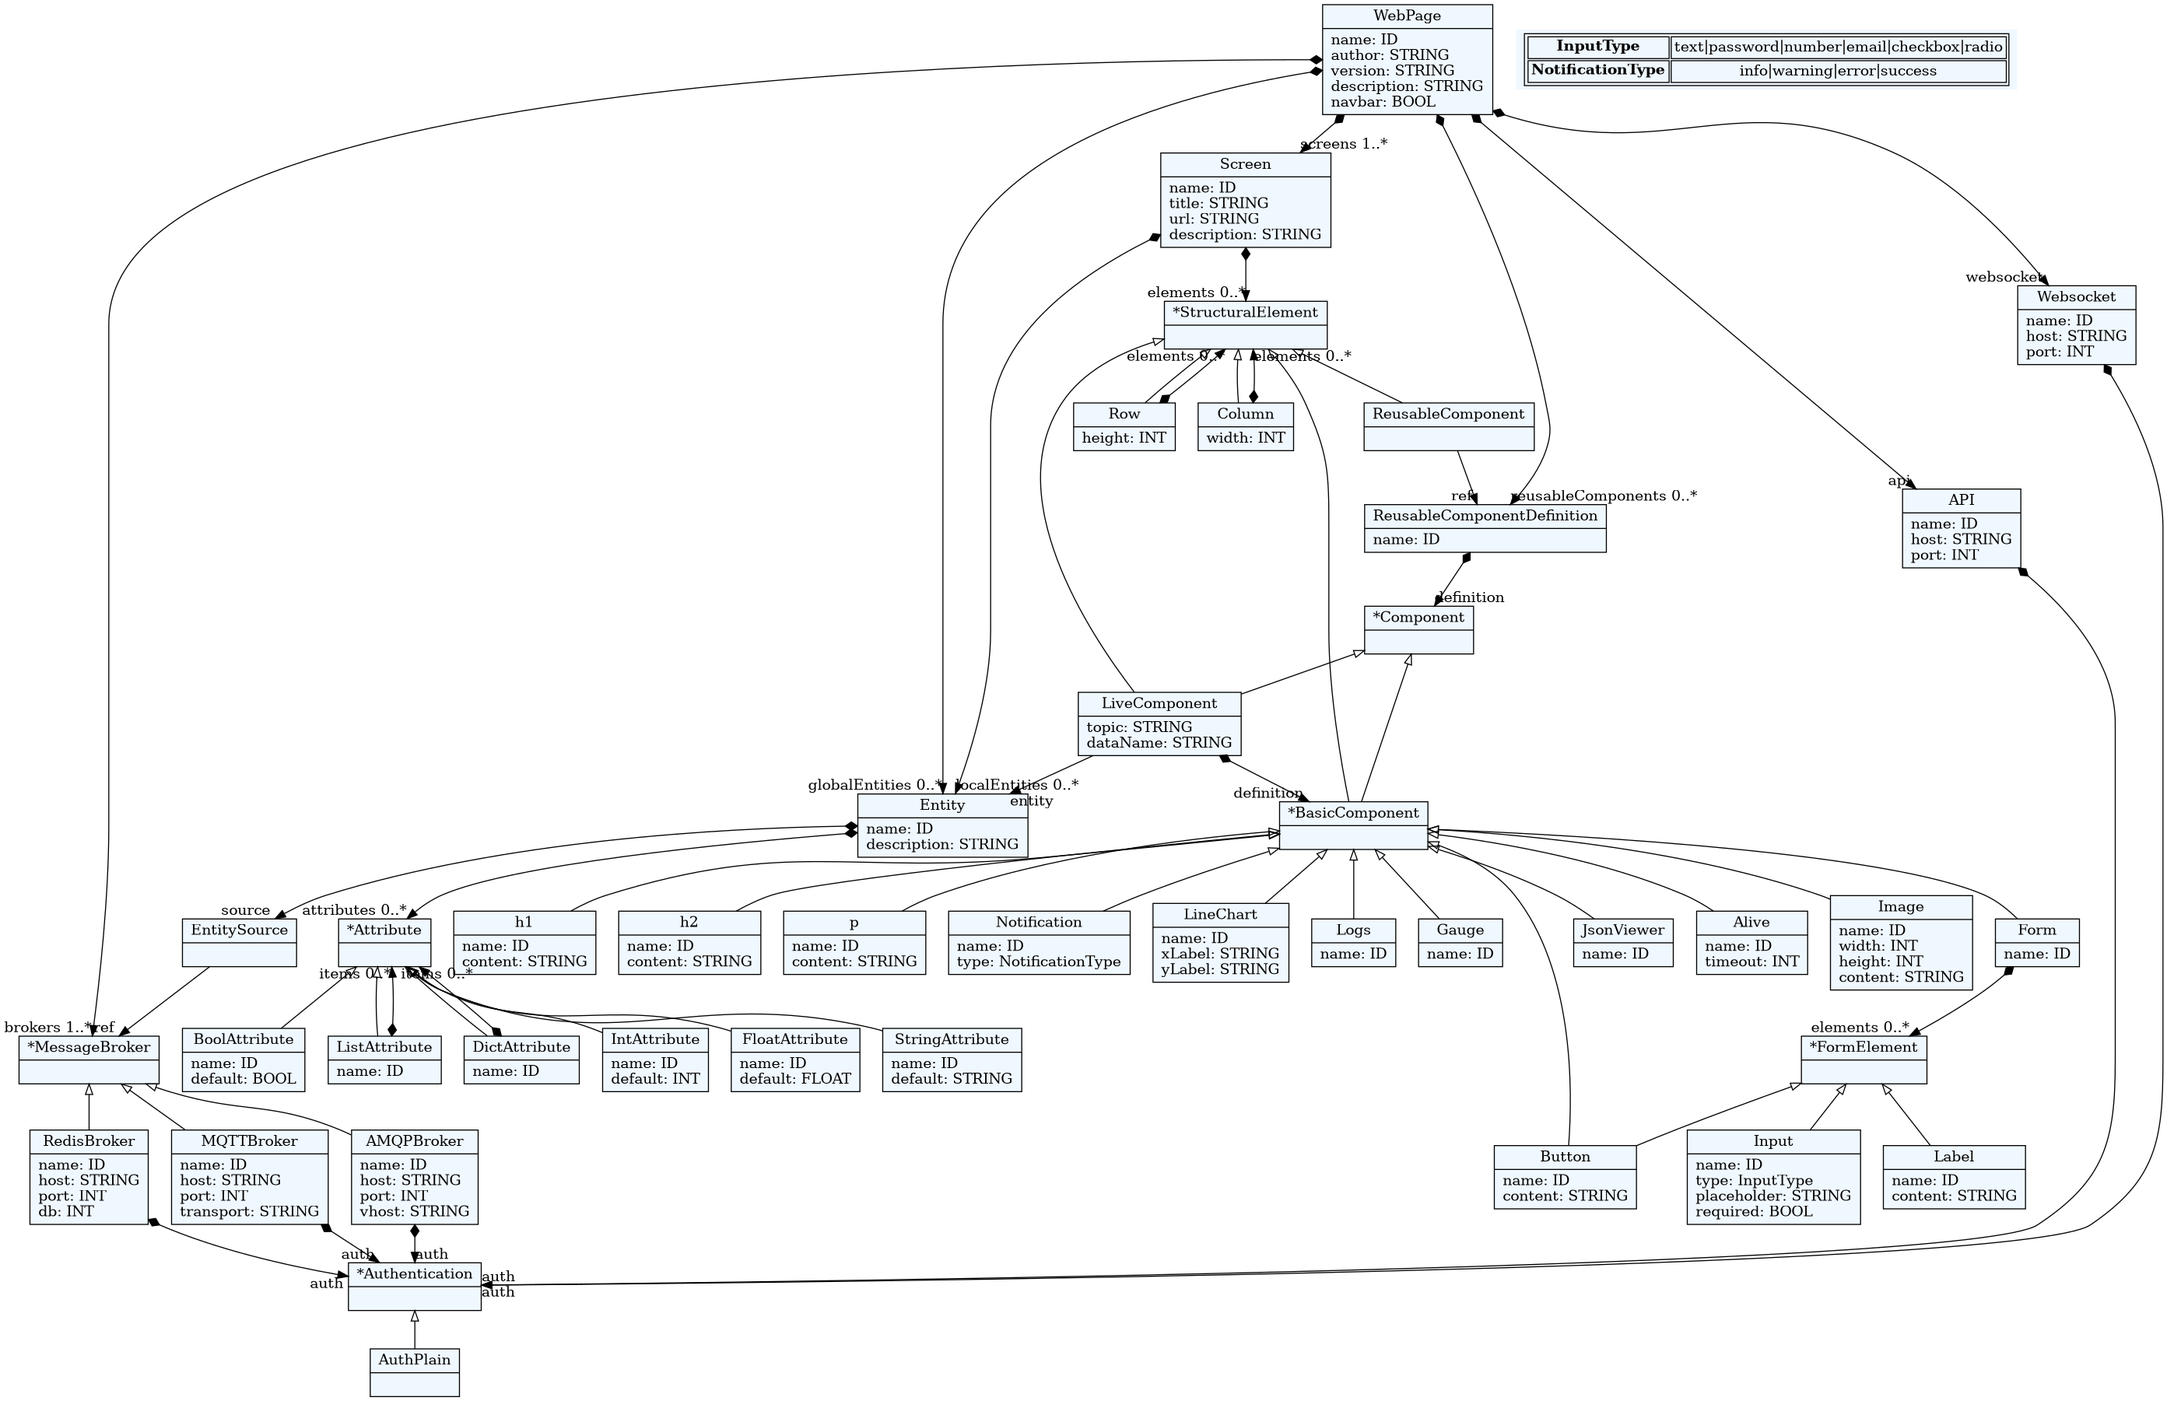
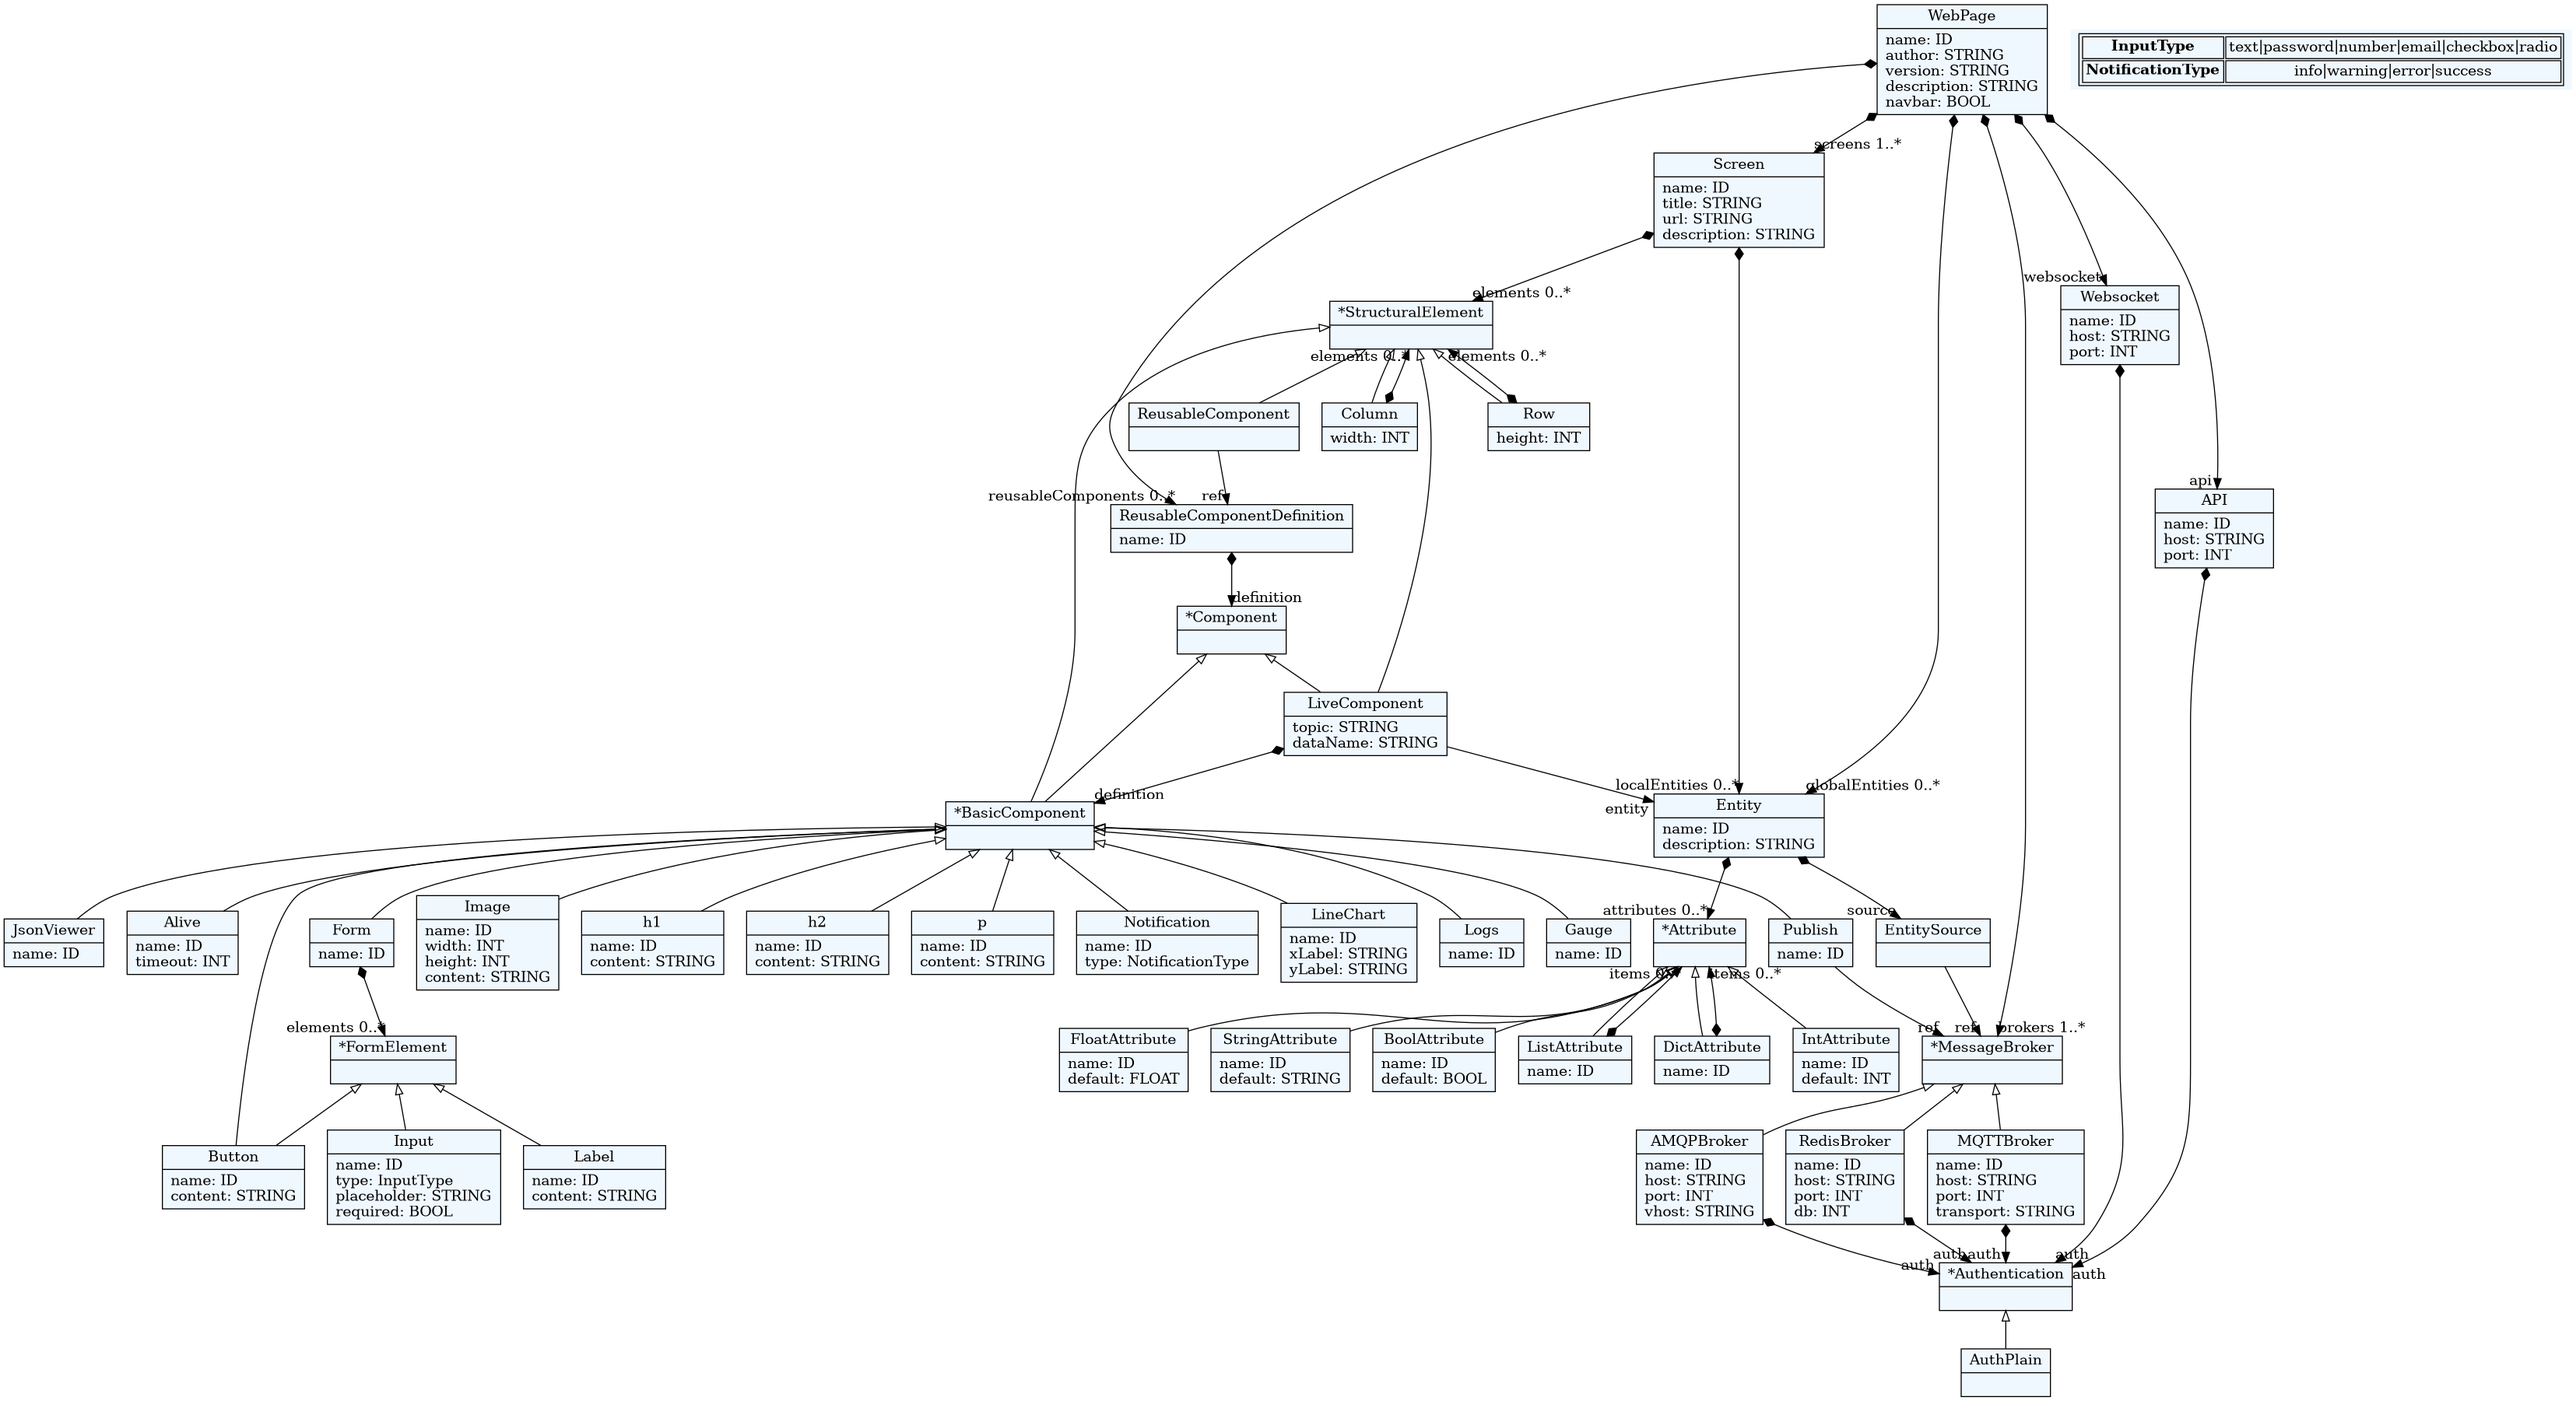
Added publisher component to frontend

diff --git a/web_dsl/base/frontend_base/src/components/ObjectEditor.jsx b/web_dsl/base/frontend_base/src/components/ObjectEditor.jsx
@@ -1,0 +1,88 @@
+import { useState } from "react";
+import { IoMdAddCircleOutline } from "react-icons/io";
+import { RiDeleteBin5Fill } from "react-icons/ri";
+
+const ObjectEditor = ({ initialData, onChange }) => {
+    const [data, setData] = useState(initialData || {});
+
+    // Handle key change
+    const handleKeyChange = (oldKey, newKey) => {
+        if (!newKey || newKey in data) return; // Prevent duplicates or empty keys
+        const updatedData = { ...data };
+        updatedData[newKey] = updatedData[oldKey];
+        delete updatedData[oldKey];
+        setData(updatedData);
+        onChange(updatedData);
+    };
+
+    // Handle value change
+    const handleValueChange = (key, value) => {
+        const updatedData = { ...data, [key]: value };
+        setData(updatedData);
+        onChange(updatedData);
+    };
+
+    // Handle adding a new field
+    const addField = () => {
+        const newKey = `key${Object.keys(data).length + 1}`; // Generate unique key
+        setData({ ...data, [newKey]: "" });
+        onChange({ ...data, [newKey]: "" });
+    };
+
+    // Handle deleting a field
+    const deleteField = (key) => {
+        const updatedData = { ...data };
+        delete updatedData[key];
+        setData(updatedData);
+        onChange(updatedData);
+    };
+
+    // Handle Enter key press to add a new field
+    const handleKeyDown = (e) => {
+        if (e.key === "Enter") {
+            e.preventDefault();
+            addField();
+        }
+    };
+
+    return (
+        <div className="p-4  w-full max-w-md flex justify-center items-center flex-col">
+            <h2 className="mb-2">Edit JSON to send</h2>
+            {Object.entries(data).map(([key, value]) => (
+                <div key={key} className="flex items-center mb-2">
+                    {/* Editable Key */}
+                    <input
+                        type="text"
+                        defaultValue={key}
+                        onBlur={(e) => handleKeyChange(key, e.target.value)}
+                        className="p-1 border rounded w-1/2 font-mono text-sm"
+                    />
+                    <span className="mx-2">:</span>
+                    {/* Editable Value */}
+                    <input
+                        type="text"
+                        value={value}
+                        onChange={(e) => handleValueChange(key, e.target.value)}
+                        className="p-1 border rounded w-1/2"
+                        onKeyDown={handleKeyDown}
+                    />
+                    {/* Delete Button */}
+                    <button
+                        onClick={() => deleteField(key)}
+                        className="ml-2 text-red-500 cursor-pointer"
+                    >
+                        <RiDeleteBin5Fill className="text-xl" />
+                    </button>
+                </div>
+            ))}
+            <button
+                onClick={addField}
+                className="mt-2 p-2 cursor-pointer bg-[#076678]  text-white rounded flex items-center "
+            >
+                <IoMdAddCircleOutline className="text-xl mr-1" /> Add
+            </button>
+        </div>
+    );
+};
+
+export default ObjectEditor;

diff --git a/web_dsl/base/frontend_base/src/components/Publish.jsx b/web_dsl/base/frontend_base/src/components/Publish.jsx
@@ -1,0 +1,46 @@
+import JsonView from "@uiw/react-json-view";
+import { useState } from "react";
+import ObjectEditor from "./ObjectEditor";
+import { IoSend } from "react-icons/io5";
+import { publish } from "../api/publish";
+
+const Publish = ({ brokerName }) => {
+    const [dataToPublish, setDataToPublish] = useState({});
+    const [topic, setTopic] = useState("");
+
+    return (
+        <div className="flex justify-between items-center w-full">
+            <div className="flex justify-center items-center flex-col">
+                <h1 className="font-bold">{brokerName}</h1>
+                <p>Enter the topic:</p>
+                <input
+                    type="text"
+                    onChange={(e) => {
+                        setTopic(e.target.value);
+                    }}
+                    placeholder="Topic"
+                ></input>
+                <ObjectEditor
+                    initialData={dataToPublish}
+                    onChange={setDataToPublish}
+                />
+            </div>
+            <div className="flex justify-center items-center flex-col bg-gray-800 p-4 rounded-lg">
+                <p className="mt-2">Data to send:</p>
+                <pre className="p-2 rounded">
+                    {JSON.stringify(dataToPublish, null, 2)}
+                </pre>
+                <button
+                    className="btn text-[#fff] flex items-center justify-center"
+                    onClick={() => {
+                        publish(brokerName, topic, dataToPublish);
+                    }}
+                >
+                    Publish Message <IoSend className="ml-2" />
+                </button>
+            </div>
+        </div>
+    );
+};
+
+export default Publish;

diff --git a/web_dsl/base/frontend_base/src/index.css b/web_dsl/base/frontend_base/src/index.css
@@ -77,3 +77,11 @@ form {
     flex-direction: column;
     gap: 10px;
 }
+
+input[type="text"] {
+    background-color: #3c3836;
+    border: 1px solid #ddc7a1;
+    padding: 0.5rem 1rem;
+    color: #ddc7a1;
+    border-radius: 5px;
+}
